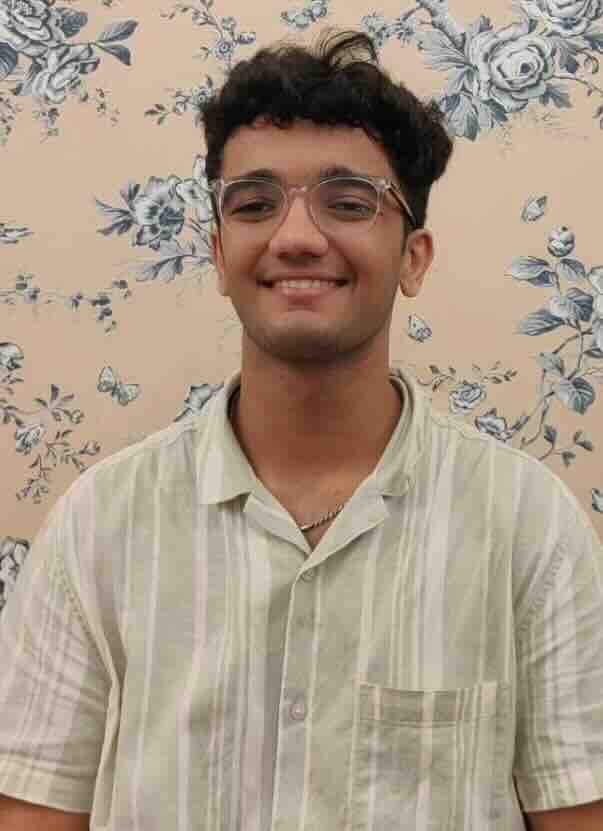
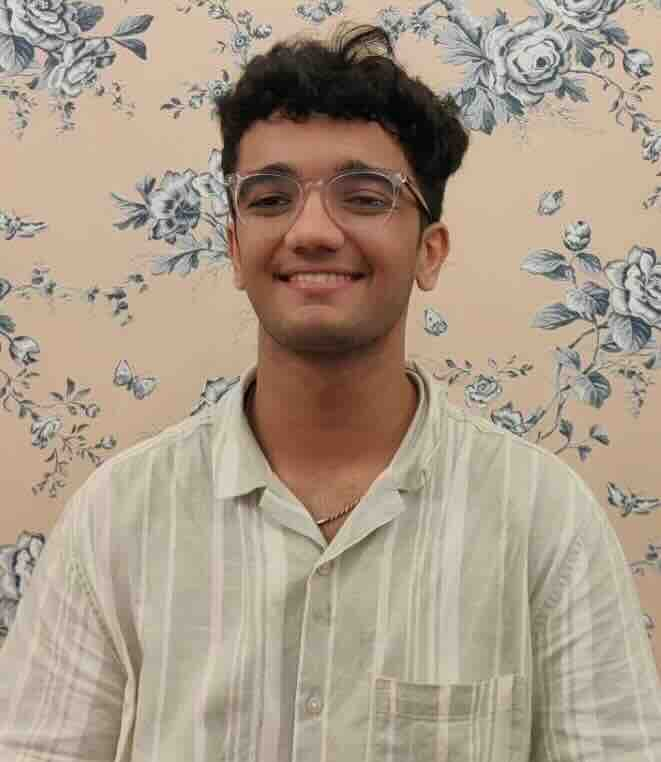
Brought to center

diff --git a/src/lib/components/Category.svelte b/src/lib/components/Category.svelte
@@ -75,11 +75,10 @@ h2{
      }
  
  .image{
-     height:300px ;
      border-radius: 7px;
      border: 3px rgb(228, 222, 222);
      object-fit: cover;
-     object-position: 100% 10%;
+     object-position: 50% 10%;
  }
  
  .picture{
@@ -116,6 +115,8 @@ h2{
  .icon{
      width: 25%;
  }
+
+
  
  @media screen and (max-width:1100px)  {
     .widthcond2{
@@ -132,6 +133,7 @@ h2{
     .widthcond1{
         width: 50%;
     }
+    .image{}
 
 
 }
@@ -149,6 +151,9 @@ h2{
     }
     .widthcond1,.widthcond2{
         width: 70%;
+    }
+    .image{
+        height:400px ;
     }
   }
  
